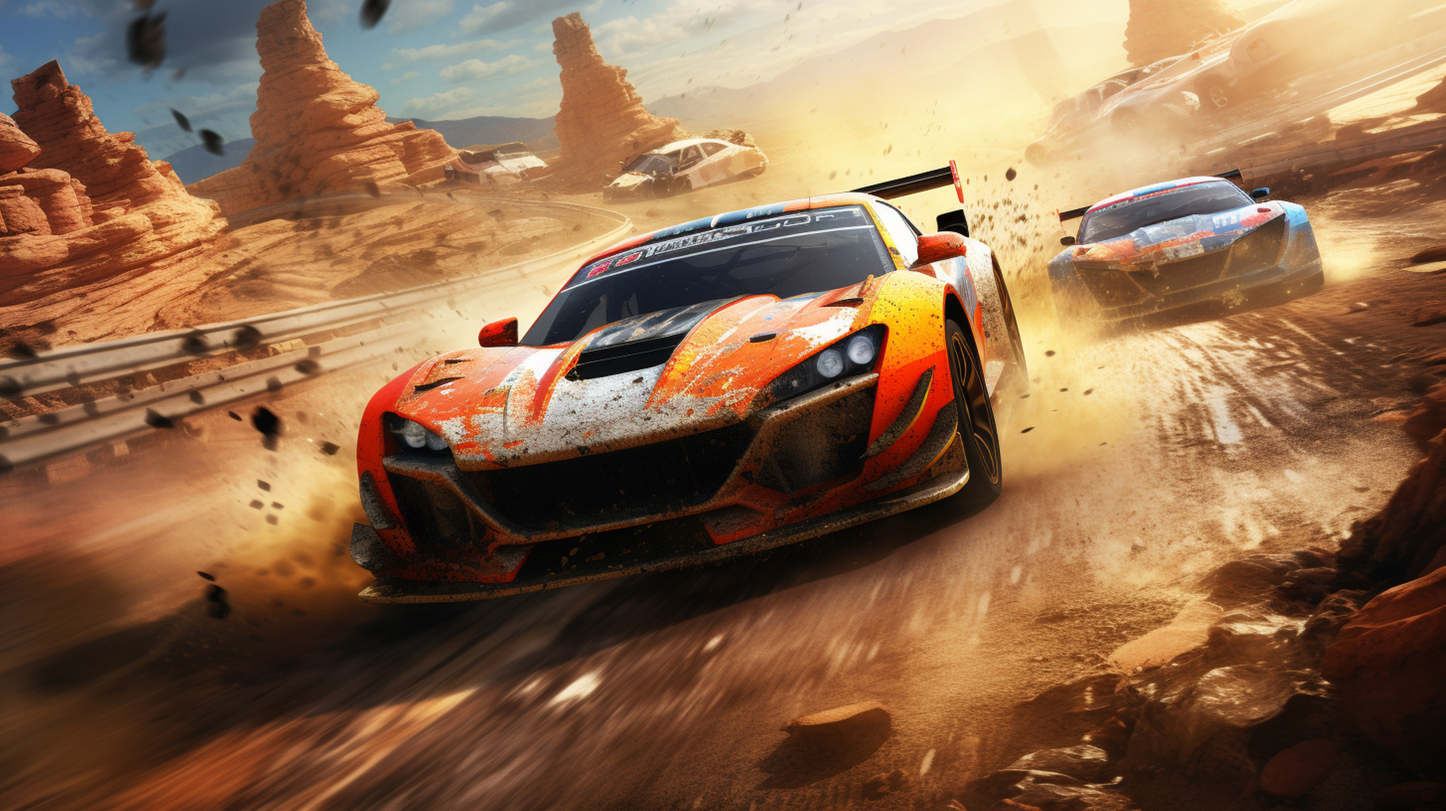
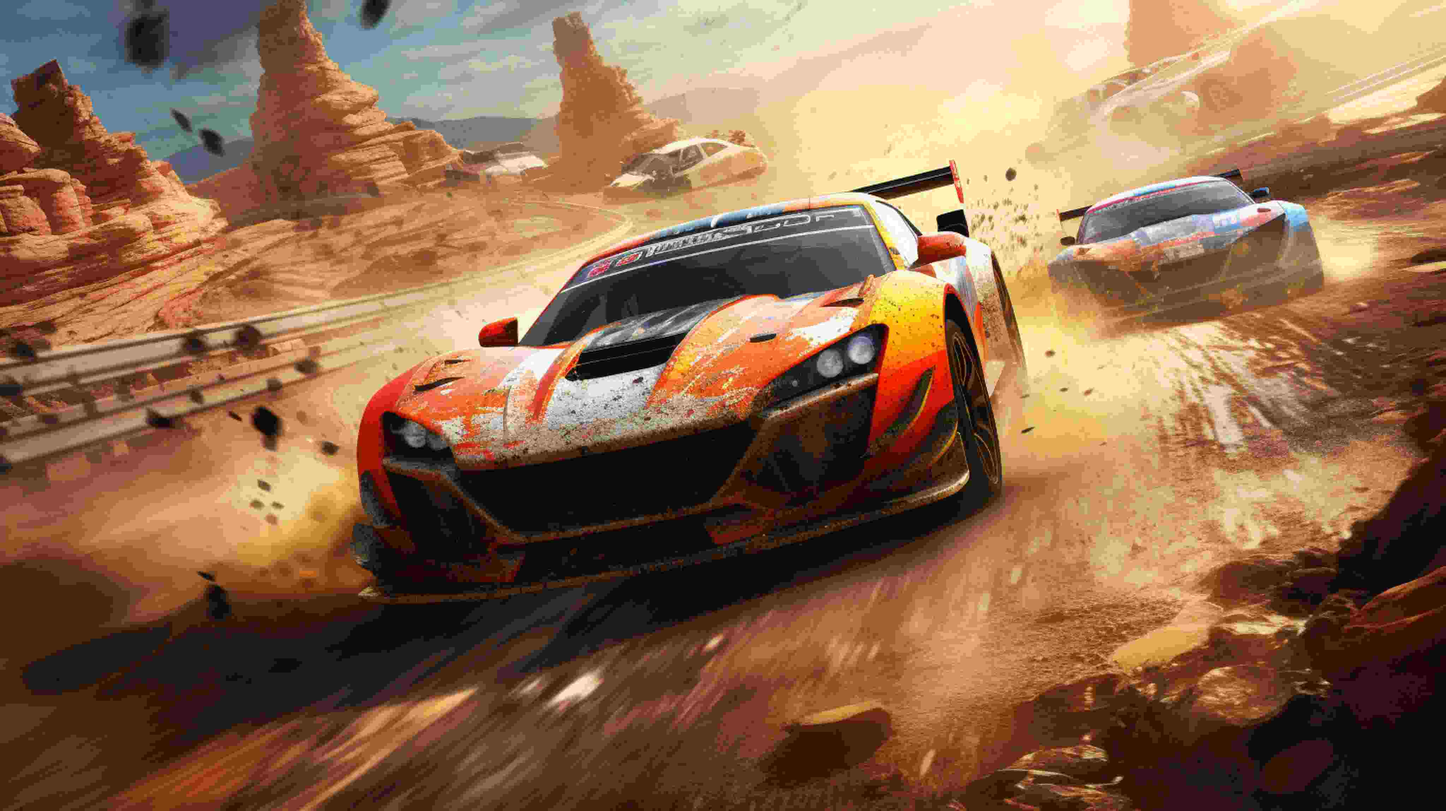
some small updates

diff --git a/radicalracinggames/index.html b/radicalracinggames/index.html
@@ -55,8 +55,8 @@
     <section class="hero">
         <h2 class="visually-hidden">Welcome to Radical Racing Games</h2>
         <picture>
-            <source srcset="images/hero-image-desktop-rrg-garbage-res.jpg" alt="Sports car speeding along a winding desert road surrounded by red rock formations and sparse vegetation under a clear blue sky, evoking excitement and adventure. No visible text in the image." media="(min-width: 768px)" loading="lazy">
-            <img src="images/hero-image-mobile-rrg-garbage-res.jpg" alt="Sports car speeding along a winding desert road surrounded by red rock formations and sparse vegetation under a clear blue sky, evoking excitement and adventure. No visible text in the image." loading="lazy">
+            <source srcset="images/hero-image-desktop-rrg.jpg" alt="Sports car speeding along a winding desert road surrounded by red rock formations and sparse vegetation under a clear blue sky, evoking excitement and adventure. No visible text in the image." media="(min-width: 768px)" loading="lazy">
+            <img src="images/hero-image-mobile-rrg.jpg" alt="Sports car speeding along a winding desert road surrounded by red rock formations and sparse vegetation under a clear blue sky, evoking excitement and adventure. No visible text in the image." loading="lazy">
         </picture>
         <div class="hero-button">
             <a href="#" class="cta-button">Start Exploring Now!</a>
